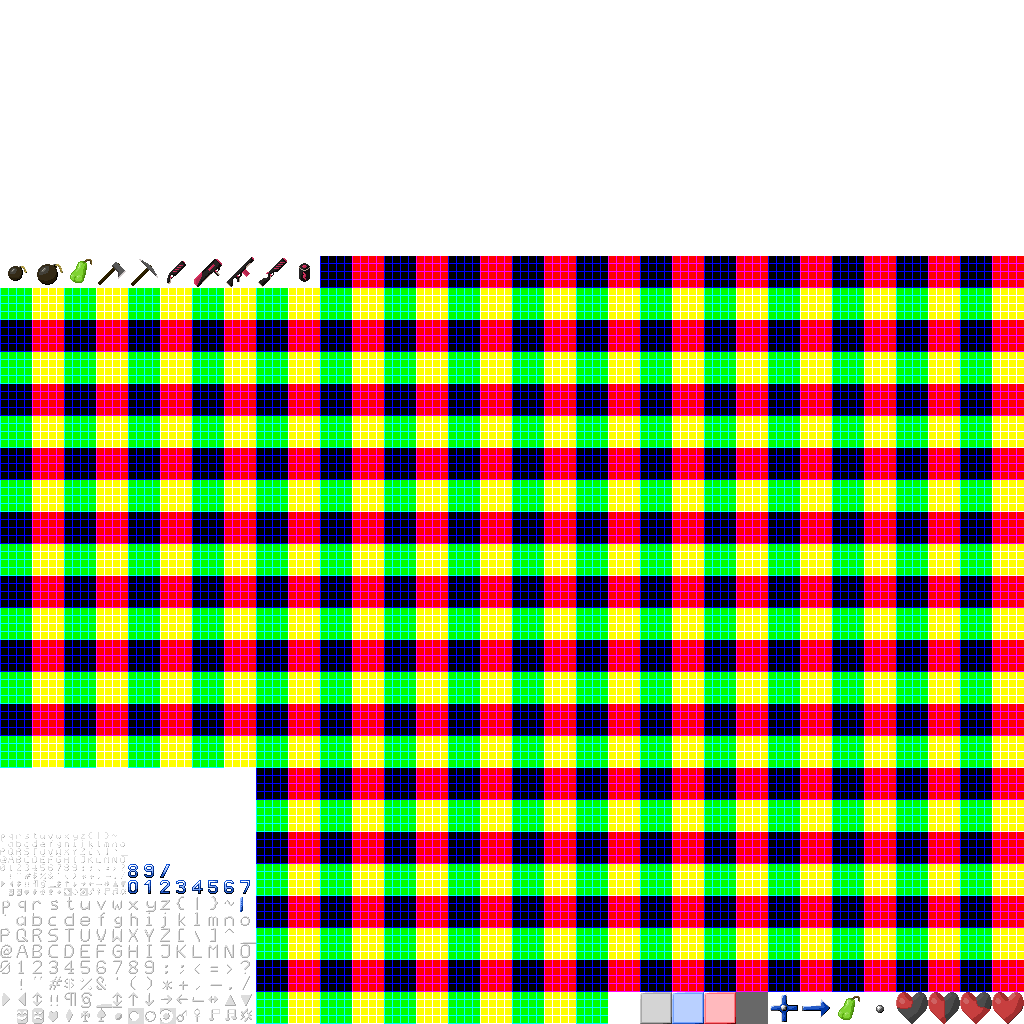
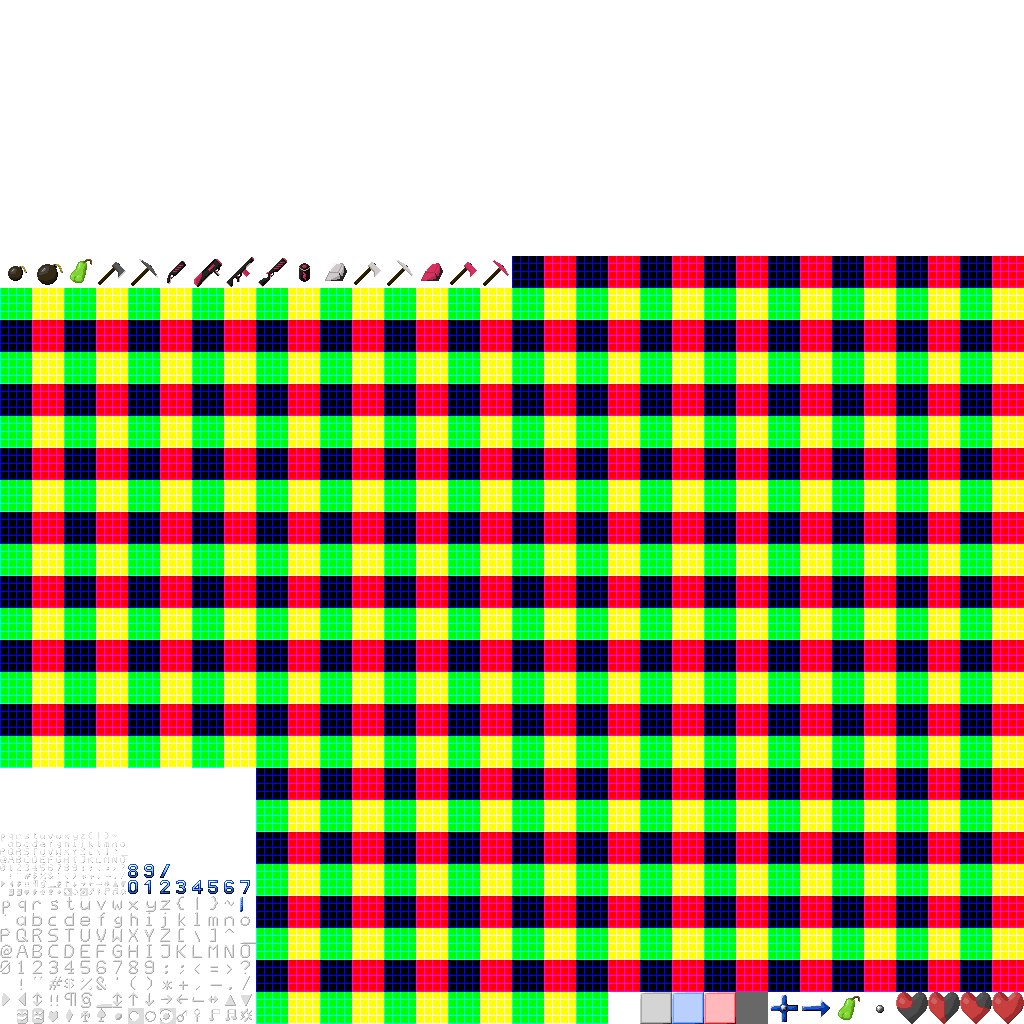
New items

Changed region(s): [[0.3125, 0.25, 0.5, 0.2812]]

diff --git a/client/src/game/recipe.c b/client/src/game/recipe.c
@@ -116,9 +116,11 @@ void recipeAdd2I(unsigned short nResultID, unsigned char nResultAmount, unsigned
 	recipes[r].ingredientID[2]     = recipes[r].ingredientAmount[2] = 0;
 }
 
+#include <stdio.h>
 int characterGetItemOrSubstituteAmount(character *c, unsigned short i){
 	ingredientSubstitute *s;
 	int ret = characterGetItemAmount(c,i);
+	if(i >= (sizeof(substitutes)/sizeof(ingredientSubstitute *))){return 0;}
 
 	for(s = substitutes[i];s != NULL;s = s->next){
 		ret += characterGetItemAmount(c,s->substitute);
@@ -172,11 +174,30 @@ void recipeDoCraft(int r, character *c,int amount){
 	characterPickupItem(c,recipes[r].resultID,amount*recipes[r].resultAmount);
 }
 
+int  recipeGetCraftableCount(character *c){
+	int ret=0;
+	for(int r=0;r<recipeCount;r++){
+		if(recipeCanCraft(r,c) > 0){ret++;}
+	}
+	return ret;
+}
+int recipeGetCraftableIndex(character *c,int i){
+	int ret=0;
+	for(int r=0;r<recipeCount;r++){
+		if(recipeCanCraft(r,c) > 0){
+			if(ret++ == i){
+				return r;	
+			}
+		}
+	}
+	return -1;
+}
+
 void recipeInit(){
 	ingredientSubstituteAdd(10,5);
 	ingredientSubstituteAdd(10,20);
 	//recipeAdd1I(16,1, 10,1);
 	recipeAdd1I(17,2, 10,1);
-	//recipeAdd1I(14,1, 12,1);
-	//recipeAdd1I(15,1, 12,1);
+	recipeAdd1I(14,1, 12,1);
+	recipeAdd1I(15,1, 12,1);
 }

diff --git a/client/src/gui/inventory.c b/client/src/gui/inventory.c
@@ -108,11 +108,11 @@ void drawInventory(textMesh *guim){
 		textMeshItem(guim,x,y,tilesize, style, &player->inventory[i]);
 	}
 
-	for(int i=0;i<10;i++){
+	for(int i=0;i<MIN(10,recipeGetCraftableCount(player));i++){
 		if(i >= recipeGetCount()){break;}
 		const int y = screenHeight/2 - tilesize*3;
 		const int x = (screenWidth/2)+((i-5)*tilesize);
-		int r = i;
+		int r = recipeGetCraftableIndex(player,i);
 		unsigned short b = recipeGetResultID(r);
 		unsigned short a = recipeCanCraft(r,player);
 		int style = 0;
@@ -166,8 +166,8 @@ void inventoryClickOutside(int btn){
 void doInventoryClick(int btn, int sel){
 	item *cItem;
 
-	if((sel >= 50) && (sel < 60)){
-		int r = sel-50;
+	if((sel >= 50) && (sel < (50+MIN(10,recipeGetCraftableCount(player))))){
+		int r = recipeGetCraftableIndex(player,sel-50);
 		if(btn == 1){
 			recipeDoCraft(r,player,1);
 		}else if(btn == 3){
@@ -256,7 +256,7 @@ void changeInventorySelection(int x,int y){
 	int ysel = gamepadSelection / 10;
 
 	int xmax = 9;
-	if(ysel == 5){xmax = MIN(9,recipeGetCount()-1);}
+	if(ysel == 5){xmax = MIN(9,recipeGetCraftableCount(player)-1);}
 	xsel += x;
 	if(xsel < 0){xsel = xmax;}
 	if(xsel > xmax){xsel = 0;}

diff --git a/common/src/mods/items/stonepickaxe.c b/common/src/mods/items/stonepickaxe.c
@@ -2,28 +2,28 @@ static const int ITEMID=260;
 
 #include "../api_v1.h"
 
-void pickaxeInit(){
+void stonepickaxeInit(){
 	recipeAdd2I(ITEMID,1, 17,2, 3,2);
 }
 
-int pickaxeBlockDamage(item *cItem, blockCategory blockCat){
+int stonepickaxeBlockDamage(item *cItem, blockCategory blockCat){
 	(void)cItem;
 
 	if(blockCat == STONE){
-		return 5;
-	} else if(blockCat == DIRT){
 		return 3;
+	} else if(blockCat == DIRT){
+		return 2;
 	}
 	return 1;
 }
 
-mesh *pickaxeGetMesh(item *cItem){
+mesh *stonepickaxeGetMesh(item *cItem){
 	(void)cItem;
 
 	return meshPickaxe;
 }
 
-int pickaxeGetStackSize(item *cItem){
+int stonepickaxeGetStackSize(item *cItem){
 	(void)cItem;
 
 	return 1;

diff --git a/common/src/mods/items/stoneaxe.c b/common/src/mods/items/stoneaxe.c
@@ -2,26 +2,26 @@ static const int ITEMID=259;
 
 #include "../api_v1.h"
 
-void axeInit(){
+void stoneaxeInit(){
 	recipeAdd2I(ITEMID,1, 17,2, 3,2);
 }
 
-int axeBlockDamage(item *cItem, blockCategory blockCat){
+int stoneaxeBlockDamage(item *cItem, blockCategory blockCat){
 	(void)cItem;
 
 	if(blockCat == WOOD){
-		return 4;
+		return 3;
 	}
 	return 1;
 }
 
-mesh *axeGetMesh(item *cItem){
+mesh *stoneaxeGetMesh(item *cItem){
 	(void)cItem;
 
 	return meshAxe;
 }
 
-int axeGetStackSize(item *cItem){
+int stoneaxeGetStackSize(item *cItem){
 	(void)cItem;
 
 	return 1;

diff --git a/common/src/mods/items/crystalpickaxe.c b/common/src/mods/items/crystalpickaxe.c
@@ -1,0 +1,30 @@
+static const int ITEMID=271;
+
+#include "../api_v1.h"
+
+void crystalpickaxeInit(){
+	recipeAdd2I(ITEMID,1, 17,4, 269,4);
+}
+
+int crystalpickaxeBlockDamage(item *cItem, blockCategory blockCat){
+	(void)cItem;
+
+	if(blockCat == STONE){
+		return 8;
+	}else if(blockCat == DIRT){
+		return 5;
+	}
+	return 1;
+}
+
+mesh *crystalpickaxeGetMesh(item *cItem){
+	(void)cItem;
+
+	return meshPickaxe;
+}
+
+int crystalpickaxeGetStackSize(item *cItem){
+	(void)cItem;
+
+	return 1;
+}

diff --git a/common/src/mods/items/ironpickaxe.c b/common/src/mods/items/ironpickaxe.c
@@ -1,0 +1,30 @@
+static const int ITEMID=268;
+
+#include "../api_v1.h"
+
+void ironpickaxeInit(){
+	recipeAdd2I(ITEMID,1, 17,2, 266,2);
+}
+
+int ironpickaxeBlockDamage(item *cItem, blockCategory blockCat){
+	(void)cItem;
+
+	if(blockCat == STONE){
+		return 5;
+	} else if(blockCat == DIRT){
+		return 3;
+	}
+	return 1;
+}
+
+mesh *ironpickaxeGetMesh(item *cItem){
+	(void)cItem;
+
+	return meshPickaxe;
+}
+
+int ironpickaxeGetStackSize(item *cItem){
+	(void)cItem;
+
+	return 1;
+}

diff --git a/common/src/mods/items/crystalaxe.c b/common/src/mods/items/crystalaxe.c
@@ -1,0 +1,28 @@
+static const int ITEMID=270;
+
+#include "../api_v1.h"
+
+void crystalaxeInit(){
+	recipeAdd2I(ITEMID,1, 17,4, 269,4);
+}
+
+int crystalaxeBlockDamage(item *cItem, blockCategory blockCat){
+	(void)cItem;
+
+	if(blockCat == WOOD){
+		return 8;
+	}
+	return 1;
+}
+
+mesh *crystalaxeGetMesh(item *cItem){
+	(void)cItem;
+
+	return meshAxe;
+}
+
+int crystalaxeGetStackSize(item *cItem){
+	(void)cItem;
+
+	return 1;
+}

diff --git a/common/src/mods/items/ironaxe.c b/common/src/mods/items/ironaxe.c
@@ -1,0 +1,28 @@
+static const int ITEMID=267;
+
+#include "../api_v1.h"
+
+void ironaxeInit(){
+	recipeAdd2I(ITEMID,1, 17,2, 266,2);
+}
+
+int ironaxeBlockDamage(item *cItem, blockCategory blockCat){
+	(void)cItem;
+
+	if(blockCat == WOOD){
+		return 5;
+	}
+	return 1;
+}
+
+mesh *ironaxeGetMesh(item *cItem){
+	(void)cItem;
+
+	return meshAxe;
+}
+
+int ironaxeGetStackSize(item *cItem){
+	(void)cItem;
+
+	return 1;
+}

diff --git a/client/src/game/recipe.h b/client/src/game/recipe.h
@@ -16,6 +16,8 @@ int            ingredientSubstituteGetAmount(unsigned short ingredient);
 unsigned short ingredientSubstituteGetSub   (unsigned short ingredient, int i);
 
 int  recipeGetCount();
+int  recipeGetCraftableCount(character *c);
+int  recipeGetCraftableIndex(character *c,int i);
 int  recipeCanCraft(int r,character *c);
 void recipeDoCraft (int r,character *c,int amount);
 

diff --git a/server/src/voxel/chungus.c b/server/src/voxel/chungus.c
@@ -53,7 +53,7 @@ chungus *chungusNew(int x, int y, int z){
 	c->nextFree = NULL;
 	c->spawnx = c->spawny = c->spawnz = -1;
 	c->clientsSubscribed  = 0;
-	c->clientsUpdated     = 1 << 63;
+	c->clientsUpdated     = (uint64_t)1 << 63;
 	memset(c->chunks,0,16*16*16*sizeof(chunk *));
 	worldgen *wgen = worldgenNew(c);
 	worldgenGenerate(wgen);

diff --git a/server/src/voxel/chunk.c b/server/src/voxel/chunk.c
@@ -29,7 +29,7 @@ chunk *chunkNew(uint16_t x,uint16_t y,uint16_t z){
 	c->y = y & (~0xF);
 	c->z = z & (~0xF);
 	c->nextFree = NULL;
-	c->clientsUpdated = 1 << 63;
+	c->clientsUpdated = (uint64_t)1 << 63;
 	
 	memset(c->data,0,sizeof(c->data));
 	return c;

diff --git a/common/src/mods/items/crystalbar.c b/common/src/mods/items/crystalbar.c
@@ -1,0 +1,14 @@
+static const int ITEMID=269;
+
+#include "../api_v1.h"
+
+void crystalbarInit(){
+	recipeAdd2I(ITEMID,1, 4,8, 18,8); 
+}
+
+mesh *crystalbarGetMesh(item *cItem){
+	(void)cItem;
+
+	return meshCrystalbullet;
+}
+
